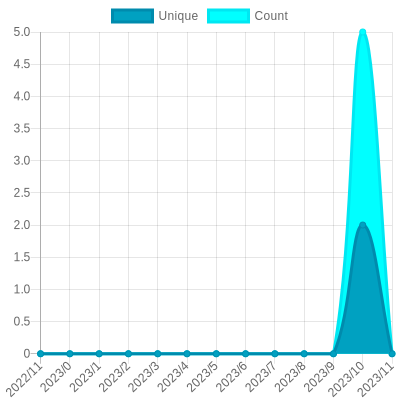
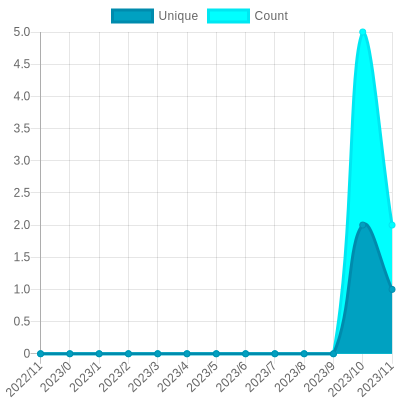
Update views

diff --git a/readme/559189064/year.md b/readme/559189064/year.md
@@ -23,10 +23,10 @@
 			<code>2022/12/1</code>
 		</td>
 		<td>
-			<code>0</code>
+			<code>1</code>
 		</td>
 		<td>
-			<code>0</code>
+			<code>2</code>
 		</td>
 	</tr>
 	<tr>
@@ -164,7 +164,7 @@
 </table>
 
 </details>
-<small><i>Last updated on 2022/12/11 1:40 AM UTC</i></small>
+<small><i>Last updated on 2022/12/11 6:22 AM UTC</i></small>
 
 ## ✂Copy and 📋 Paste
 ### SVG Badge

diff --git a/README.md b/README.md
@@ -69,7 +69,7 @@ The project created and maintained by [gayanvoice](https://github.com/gayanvoice
 	</tr>
 </table>
 
-<small><i>Last updated on 2022/12/11 1:40 AM UTC</i></small>
+<small><i>Last updated on 2022/12/11 6:22 AM UTC</i></small>
 
 ## ✂Copy and 📋 Paste
 ### Total Views Badge

diff --git a/readme/367845629/year.md b/readme/367845629/year.md
@@ -164,7 +164,7 @@
 </table>
 
 </details>
-<small><i>Last updated on 2022/12/11 1:39 AM UTC</i></small>
+<small><i>Last updated on 2022/12/11 6:21 AM UTC</i></small>
 
 ## ✂Copy and 📋 Paste
 ### SVG Badge

diff --git a/readme/470524784/year.md b/readme/470524784/year.md
@@ -164,7 +164,7 @@
 </table>
 
 </details>
-<small><i>Last updated on 2022/12/11 1:39 AM UTC</i></small>
+<small><i>Last updated on 2022/12/11 6:21 AM UTC</i></small>
 
 ## ✂Copy and 📋 Paste
 ### SVG Badge
